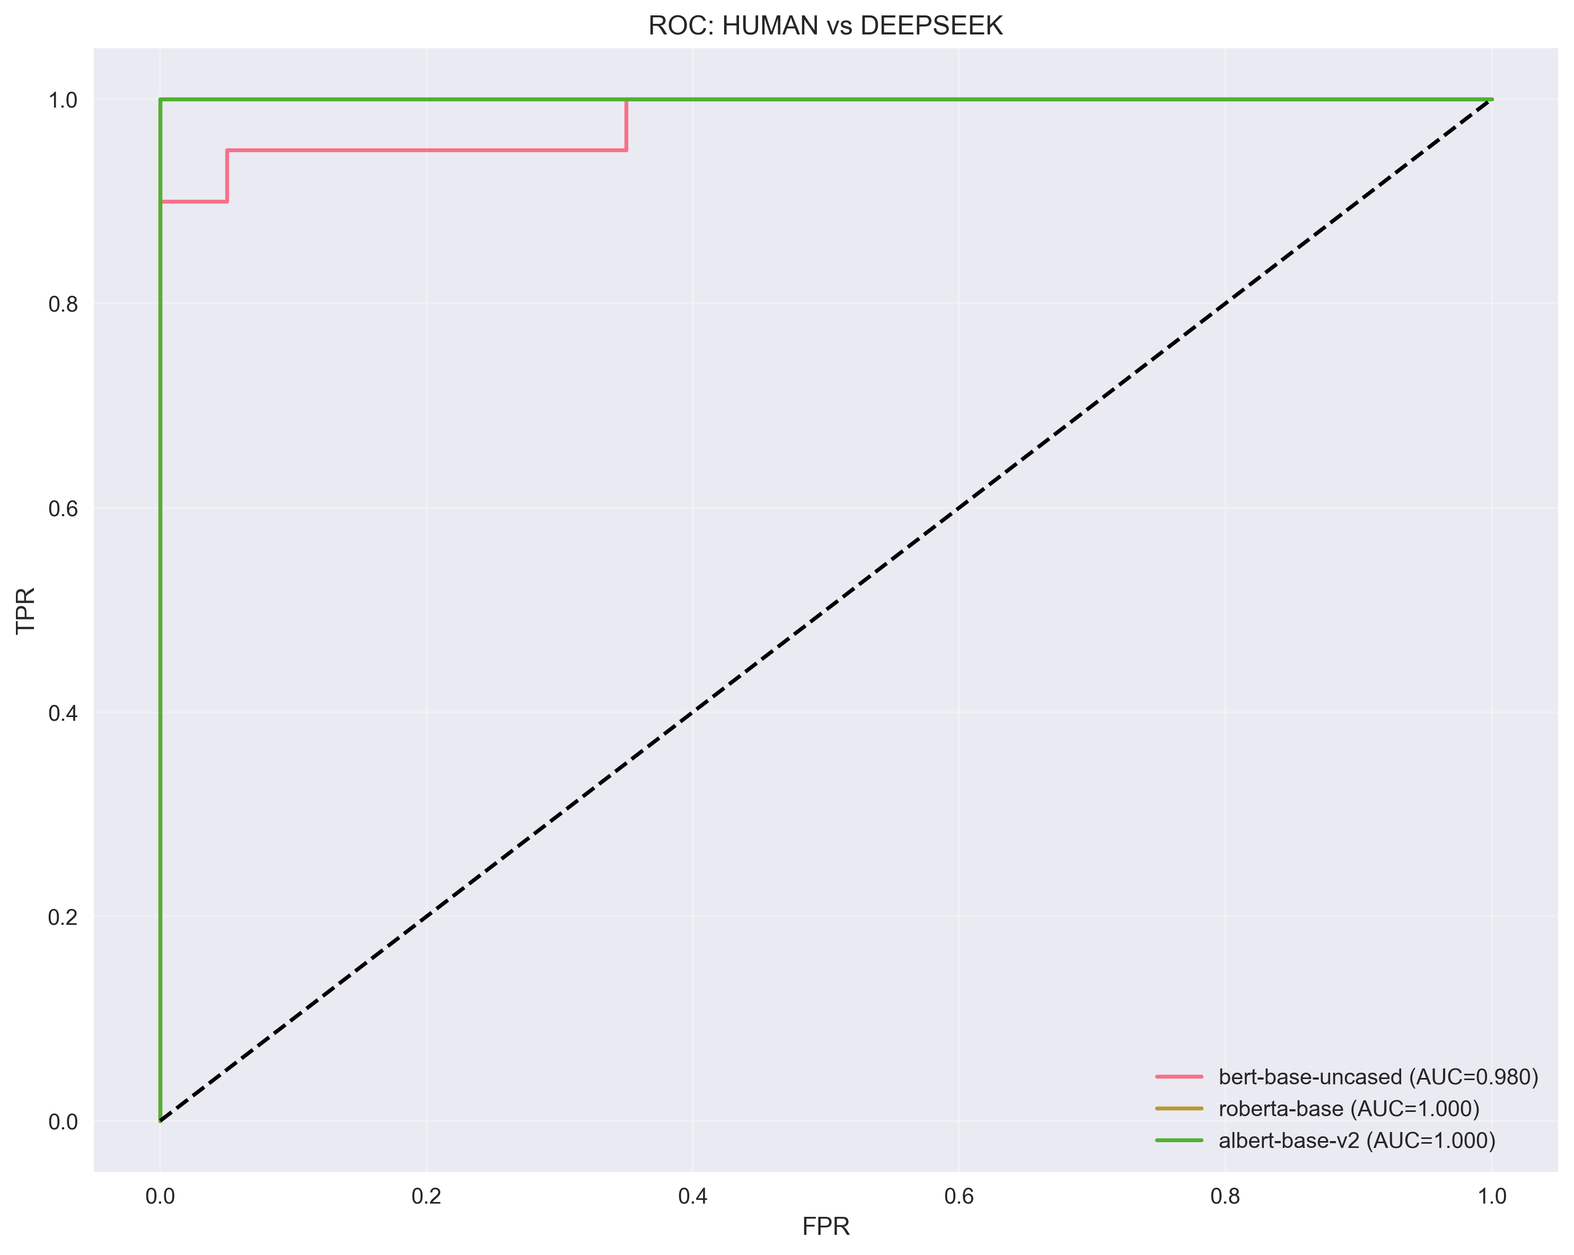
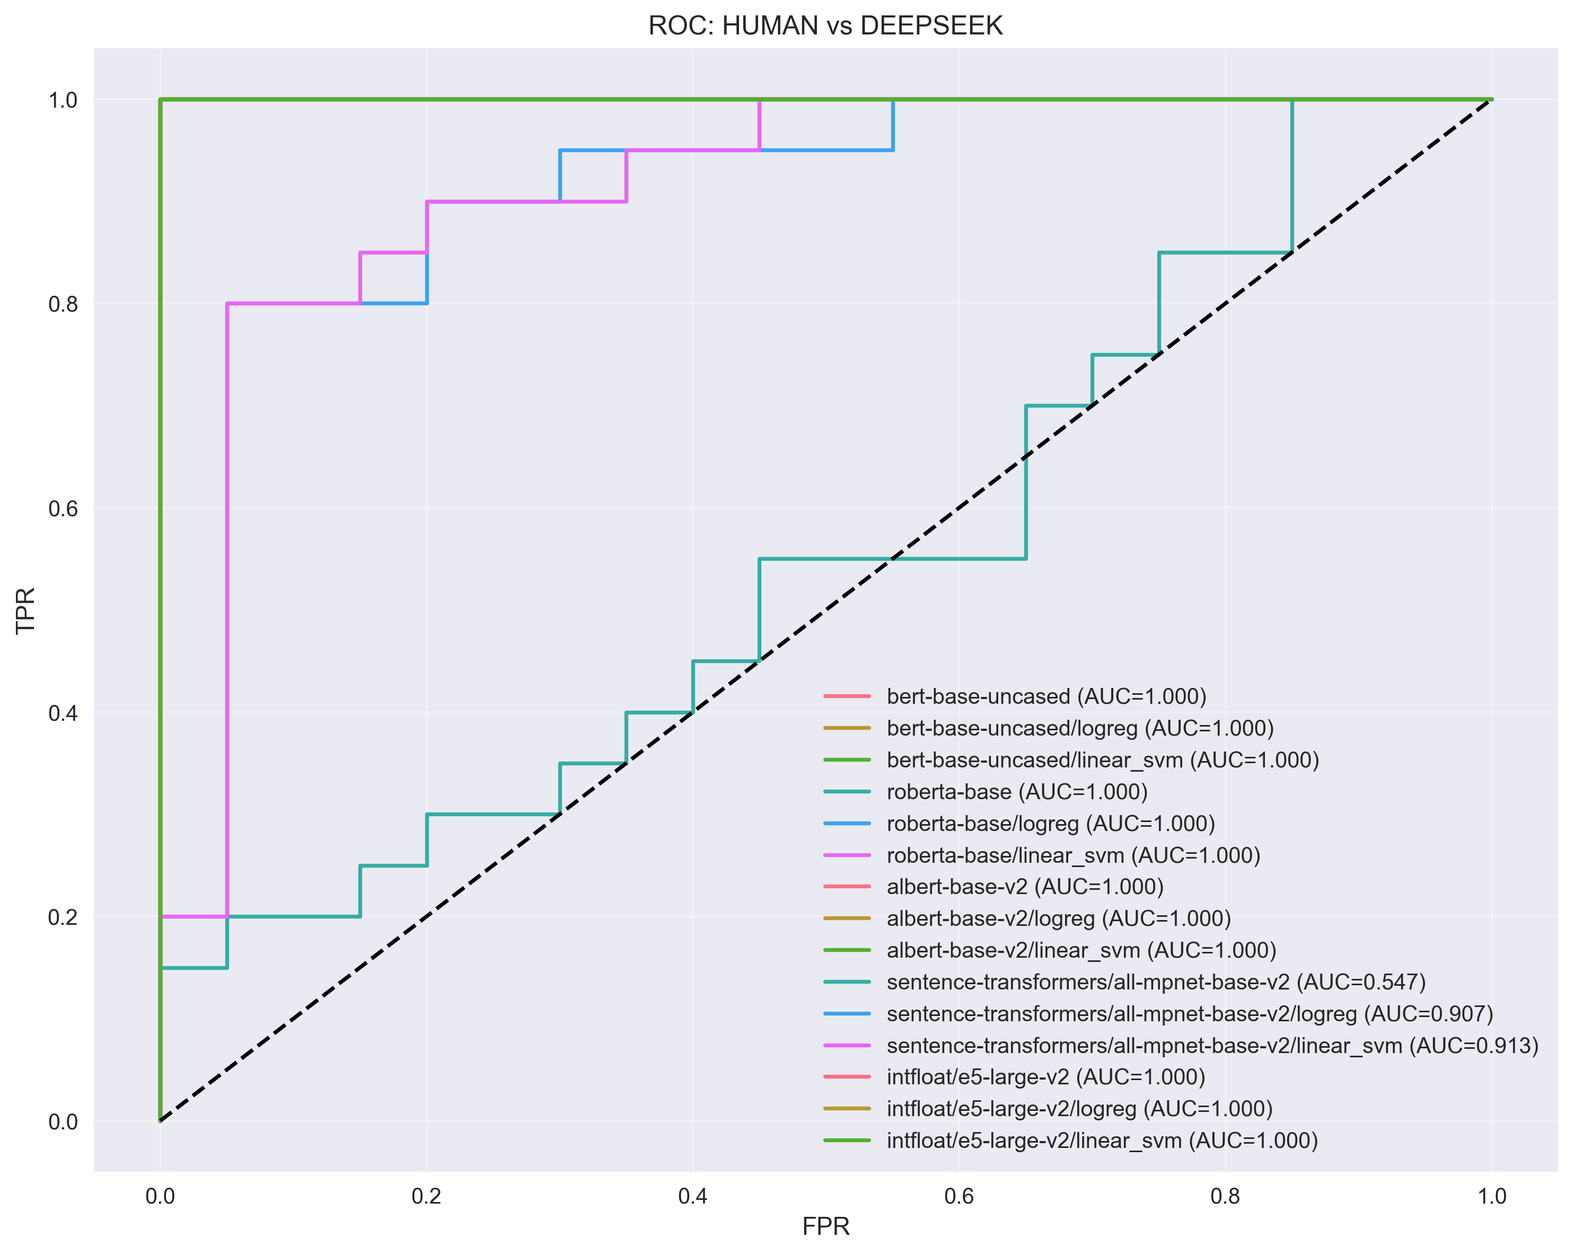
дополнение к отчету по эмбедингам

diff --git a/experiments/run_experiment2_bert.py b/experiments/run_experiment2_bert.py
@@ -35,6 +35,13 @@ except ImportError:
     print("Warning: PyTorch/Transformers not available. Install with: pip install torch transformers")
 
 try:
+    from sentence_transformers import SentenceTransformer
+    ST_AVAILABLE = True
+except Exception:
+    ST_AVAILABLE = False
+    print("Warning: sentence-transformers not available. Install with: pip install sentence-transformers")
+
+try:
     from sklearn.model_selection import train_test_split, cross_val_score, StratifiedKFold
     from sklearn.neural_network import MLPClassifier
     from sklearn.metrics import classification_report, confusion_matrix, roc_auc_score, roc_curve
@@ -83,9 +90,10 @@ def load_documents_from_txt_dir(txt_dir: str, count: int = 15) -> List[str]:
 class EmbeddingExtractor:
     """Класс для извлечения эмбеддингов из текстов"""
     
-    def __init__(self, model_name: str, max_length: int = 512):
+    def __init__(self, model_name: str, max_length: int = 512, pooling: str = 'cls'):
         self.model_name = model_name
         self.max_length = max_length
+        self.pooling = pooling  # 'cls' or 'mean'
         self.device = torch.device('cuda' if torch.cuda.is_available() else 'cpu')
         
         if not TORCH_AVAILABLE:
@@ -122,22 +130,34 @@ class EmbeddingExtractor:
             # Извлечение эмбеддингов
             with torch.no_grad():
                 outputs = self.model(**encoded)
-                # Используем [CLS] токен (первый токен) для получения эмбеддинга предложения
-                batch_embeddings = outputs.last_hidden_state[:, 0, :].cpu().numpy()
+                if self.pooling == 'mean' and hasattr(outputs, 'last_hidden_state'):
+                    # mean pooling с маской внимания
+                    token_embeddings = outputs.last_hidden_state  # [B, T, H]
+                    input_mask_expanded = encoded['attention_mask'].unsqueeze(-1).expand(token_embeddings.size()).float()
+                    sum_embeddings = torch.sum(token_embeddings * input_mask_expanded, dim=1)
+                    sum_mask = torch.clamp(input_mask_expanded.sum(dim=1), min=1e-9)
+                    batch_embeddings = (sum_embeddings / sum_mask).cpu().numpy()
+                else:
+                    # [CLS]
+                    batch_embeddings = outputs.last_hidden_state[:, 0, :].cpu().numpy()
                 embeddings.extend(batch_embeddings)
         
         return np.array(embeddings)
 
 
-def extract_embeddings_multiple_models(texts: List[str], model_names: List[str]) -> Dict[str, np.ndarray]:
+def extract_embeddings_multiple_models(texts: List[str], model_names: List[str], pooling: str = 'cls') -> Dict[str, np.ndarray]:
     """Извлекает эмбеддинги для нескольких моделей"""
     embeddings = {}
     
     for model_name in model_names:
         print(f"Extracting embeddings with {model_name}...")
         try:
-            extractor = EmbeddingExtractor(model_name)
-            embeddings[model_name] = extractor.extract_embeddings(texts)
+            if ST_AVAILABLE and (model_name.startswith('sentence-transformers') or 'all-mpnet' in model_name or 'e5-' in model_name or model_name.startswith('intfloat/')):
+                st_model = SentenceTransformer(model_name)
+                embeddings[model_name] = st_model.encode(texts, batch_size=64, show_progress_bar=False, convert_to_numpy=True, normalize_embeddings=False)
+            else:
+                extractor = EmbeddingExtractor(model_name, pooling=pooling)
+                embeddings[model_name] = extractor.extract_embeddings(texts)
             print(f"Extracted {embeddings[model_name].shape[0]} embeddings of dimension {embeddings[model_name].shape[1]}")
         except Exception as e:
             print(f"Error extracting embeddings with {model_name}: {e}")
@@ -209,6 +229,65 @@ def train_mlp_classifier(X: np.ndarray, y: np.ndarray, test_size: float = 0.2, r
         'y_pred_proba': y_pred_proba,
         'feature_importance': None  # MLP не предоставляет feature importance напрямую
     }
+
+
+def train_baselines(X: np.ndarray, y: np.ndarray, test_size: float = 0.2, random_state: int = 42) -> Dict[str, Dict]:
+    from sklearn.model_selection import train_test_split, cross_val_score
+    from sklearn.linear_model import LogisticRegression
+    from sklearn.svm import LinearSVC
+    from sklearn.calibration import CalibratedClassifierCV
+    from sklearn.preprocessing import StandardScaler
+    from sklearn.metrics import classification_report, confusion_matrix, roc_auc_score, roc_curve
+
+    X_train, X_test, y_train, y_test = train_test_split(X, y, test_size=test_size, random_state=random_state, stratify=y)
+    scaler = StandardScaler()
+    X_train = scaler.fit_transform(X_train)
+    X_test = scaler.transform(X_test)
+
+    out = {}
+
+    # Logistic Regression
+    logreg = LogisticRegression(max_iter=2000, n_jobs=None)
+    logreg.fit(X_train, y_train)
+    y_pred = logreg.predict(X_test)
+    y_proba = logreg.predict_proba(X_test)[:, 1]
+    cv_scores = cross_val_score(logreg, X_train, y_train, cv=5, scoring='accuracy')
+    out['logreg'] = {
+        'model': logreg,
+        'scaler': scaler,
+        'accuracy': logreg.score(X_test, y_test),
+        'auc_score': roc_auc_score(y_test, y_proba),
+        'cv_mean': cv_scores.mean(),
+        'cv_std': cv_scores.std(),
+        'classification_report': classification_report(y_test, y_pred, output_dict=True),
+        'confusion_matrix': confusion_matrix(y_test, y_pred),
+        'y_test': y_test,
+        'y_pred': y_pred,
+        'y_pred_proba': y_proba,
+    }
+
+    # Linear SVM (calibrated)
+    base_svm = LinearSVC()
+    svm = CalibratedClassifierCV(base_svm, method='sigmoid', cv=5)
+    svm.fit(X_train, y_train)
+    y_pred = svm.predict(X_test)
+    y_proba = svm.predict_proba(X_test)[:, 1]
+    cv_scores = cross_val_score(svm, X_train, y_train, cv=5, scoring='accuracy')
+    out['linear_svm'] = {
+        'model': svm,
+        'scaler': scaler,
+        'accuracy': svm.score(X_test, y_test),
+        'auc_score': roc_auc_score(y_test, y_proba),
+        'cv_mean': cv_scores.mean(),
+        'cv_std': cv_scores.std(),
+        'classification_report': classification_report(y_test, y_pred, output_dict=True),
+        'confusion_matrix': confusion_matrix(y_test, y_pred),
+        'y_test': y_test,
+        'y_pred': y_pred,
+        'y_pred_proba': y_proba,
+    }
+
+    return out
 
 
 def create_classification_visualizations(results: Dict, output_dir: str):
@@ -409,9 +488,13 @@ def main():
     parser.add_argument("--docs_per_topic", type=int, default=15, help="Количество документов на тему")
     parser.add_argument("--models", nargs="+", default=[
         "bert-base-uncased",
-        "roberta-base", 
-        "albert-base-v2"
+        "roberta-base",
+        "albert-base-v2",
+        # дополнительные sentence-transformers
+        "sentence-transformers/all-mpnet-base-v2",
+        "intfloat/e5-large-v2"
     ], help="Список моделей для извлечения эмбеддингов")
+    parser.add_argument("--pooling", choices=["cls","mean"], default="mean", help="Pooling для базовых HF моделей")
     args = parser.parse_args()
     
     if not TORCH_AVAILABLE:
@@ -486,7 +569,7 @@ def main():
         all_labels = [0] * len(human_docs) + [1] * len(synth_docs)
 
         # Эмбеддинги для всех выбранных моделей
-        embeddings_dict = extract_embeddings_multiple_models(all_texts, args.models)
+        embeddings_dict = extract_embeddings_multiple_models(all_texts, args.models, pooling=args.pooling)
 
         # Обучение классификатора для каждой embedding‑модели
         results[synth_name] = {}
@@ -496,7 +579,14 @@ def main():
             print(f"Обучение MLP для {model_name} на {synth_name}...")
             try:
                 res = train_mlp_classifier(embeddings, np.array(all_labels))
+                # Сохраняем результат MLP
                 results[synth_name][model_name] = res
+                # Обучаем дополнительные классifikаторы
+                print(f"Обучение базовых моделей (logreg, linear_svm) для {model_name} на {synth_name}...")
+                baselines = train_baselines(embeddings, np.array(all_labels))
+                # добавим как отдельные строки с суффиксом
+                for clf_name, clf_res in baselines.items():
+                    results[synth_name][f"{model_name}/{clf_name}"] = clf_res
                 print(f"{synth_name} | {model_name}: Acc={res['accuracy']:.3f}, AUC={res['auc_score']:.3f}")
             except Exception as e:
                 print(f"Error training {model_name} on {synth_name}: {e}")

diff --git a/results/experiment2/experiment2_report.md b/results/experiment2/experiment2_report.md
@@ -3,7 +3,7 @@
 ## Методология
 
 - **Корпуса**: 100 HUMAN (50 TM + 50 IR) против 100 AI на каждую синтетическую модель
-- **Эмбеддинги**: bert-base-uncased, roberta-base, albert-base-v2
+- **Эмбеддинги**: bert-base-uncased, roberta-base, albert-base-v2, sentence-transformers/all-mpnet-base-v2, intfloat/e5-large-v2
 - **Классификатор**: MLP, train/test + 5‑fold CV
 
 ## Модель синтетики: QWEN
@@ -12,9 +12,21 @@
 
 | Embedding | Accuracy | AUC | CV Mean | CV Std |
 |-----------|----------|-----|---------|--------|
-| bert-base-uncased | 0.925 | 0.987 | 0.963 | 0.046 |
-| roberta-base | 1.000 | 1.000 | 0.994 | 0.012 |
-| albert-base-v2 | 1.000 | 1.000 | 0.988 | 0.025 |
+| bert-base-uncased | 0.925 | 0.978 | 0.975 | 0.036 |
+| bert-base-uncased/logreg | 0.975 | 1.000 | 0.994 | 0.013 |
+| bert-base-uncased/linear_svm | 0.975 | 1.000 | 0.994 | 0.013 |
+| roberta-base | 1.000 | 1.000 | 1.000 | 0.000 |
+| roberta-base/logreg | 1.000 | 1.000 | 1.000 | 0.000 |
+| roberta-base/linear_svm | 1.000 | 1.000 | 1.000 | 0.000 |
+| albert-base-v2 | 1.000 | 1.000 | 0.975 | 0.036 |
+| albert-base-v2/logreg | 1.000 | 1.000 | 0.988 | 0.025 |
+| albert-base-v2/linear_svm | 1.000 | 1.000 | 0.988 | 0.025 |
+| sentence-transformers/all-mpnet-base-v2 | 0.575 | 0.627 | 0.688 | 0.071 |
+| sentence-transformers/all-mpnet-base-v2/logreg | 0.725 | 0.850 | 0.831 | 0.061 |
+| sentence-transformers/all-mpnet-base-v2/linear_svm | 0.775 | 0.853 | 0.825 | 0.064 |
+| intfloat/e5-large-v2 | 0.700 | 0.785 | 0.838 | 0.050 |
+| intfloat/e5-large-v2/logreg | 0.900 | 0.953 | 0.894 | 0.032 |
+| intfloat/e5-large-v2/linear_svm | 0.900 | 0.958 | 0.875 | 0.034 |
 
 ![Метрики](classification_metrics_qwen.png)
 
@@ -28,9 +40,21 @@
 
 | Embedding | Accuracy | AUC | CV Mean | CV Std |
 |-----------|----------|-----|---------|--------|
-| bert-base-uncased | 0.950 | 0.980 | 0.944 | 0.041 |
-| roberta-base | 1.000 | 1.000 | 0.994 | 0.012 |
-| albert-base-v2 | 0.975 | 1.000 | 1.000 | 0.000 |
+| bert-base-uncased | 0.975 | 1.000 | 0.981 | 0.025 |
+| bert-base-uncased/logreg | 1.000 | 1.000 | 0.988 | 0.015 |
+| bert-base-uncased/linear_svm | 1.000 | 1.000 | 0.988 | 0.015 |
+| roberta-base | 1.000 | 1.000 | 1.000 | 0.000 |
+| roberta-base/logreg | 1.000 | 1.000 | 1.000 | 0.000 |
+| roberta-base/linear_svm | 1.000 | 1.000 | 1.000 | 0.000 |
+| albert-base-v2 | 0.975 | 1.000 | 0.994 | 0.013 |
+| albert-base-v2/logreg | 0.950 | 1.000 | 0.994 | 0.013 |
+| albert-base-v2/linear_svm | 0.950 | 1.000 | 1.000 | 0.000 |
+| sentence-transformers/all-mpnet-base-v2 | 0.500 | 0.547 | 0.544 | 0.070 |
+| sentence-transformers/all-mpnet-base-v2/logreg | 0.825 | 0.907 | 0.725 | 0.036 |
+| sentence-transformers/all-mpnet-base-v2/linear_svm | 0.825 | 0.913 | 0.719 | 0.056 |
+| intfloat/e5-large-v2 | 1.000 | 1.000 | 1.000 | 0.000 |
+| intfloat/e5-large-v2/logreg | 1.000 | 1.000 | 1.000 | 0.000 |
+| intfloat/e5-large-v2/linear_svm | 1.000 | 1.000 | 1.000 | 0.000 |
 
 ![Метрики](classification_metrics_deepseek.png)
 
@@ -44,9 +68,21 @@
 
 | Embedding | Accuracy | AUC | CV Mean | CV Std |
 |-----------|----------|-----|---------|--------|
-| bert-base-uncased | 0.975 | 0.995 | 0.975 | 0.023 |
-| roberta-base | 1.000 | 1.000 | 1.000 | 0.000 |
-| albert-base-v2 | 0.950 | 1.000 | 0.981 | 0.015 |
+| bert-base-uncased | 0.975 | 0.997 | 0.969 | 0.000 |
+| bert-base-uncased/logreg | 1.000 | 1.000 | 0.975 | 0.012 |
+| bert-base-uncased/linear_svm | 1.000 | 1.000 | 0.975 | 0.012 |
+| roberta-base | 1.000 | 1.000 | 0.981 | 0.025 |
+| roberta-base/logreg | 1.000 | 1.000 | 1.000 | 0.000 |
+| roberta-base/linear_svm | 1.000 | 1.000 | 1.000 | 0.000 |
+| albert-base-v2 | 1.000 | 1.000 | 0.975 | 0.023 |
+| albert-base-v2/logreg | 1.000 | 1.000 | 0.981 | 0.015 |
+| albert-base-v2/linear_svm | 1.000 | 1.000 | 0.981 | 0.015 |
+| sentence-transformers/all-mpnet-base-v2 | 0.550 | 0.630 | 0.613 | 0.083 |
+| sentence-transformers/all-mpnet-base-v2/logreg | 0.725 | 0.833 | 0.713 | 0.072 |
+| sentence-transformers/all-mpnet-base-v2/linear_svm | 0.750 | 0.835 | 0.719 | 0.066 |
+| intfloat/e5-large-v2 | 0.975 | 1.000 | 0.981 | 0.025 |
+| intfloat/e5-large-v2/logreg | 1.000 | 1.000 | 0.988 | 0.015 |
+| intfloat/e5-large-v2/linear_svm | 1.000 | 1.000 | 0.988 | 0.015 |
 
 ![Метрики](classification_metrics_gptoss.png)
 
@@ -54,47 +90,3 @@
 
 ![Матрицы ошибок](confusion_matrices_gptoss.png)
 
-## Глоссарий метрик
-
-- Accuracy: доля верно классифицированных документов. Формула: (TP+TN)/(TP+FP+TN+FN).
-- Precision (для класса AI): доля корректных AI среди предсказанных AI. Формула: TP/(TP+FP).
-- Recall (для класса AI): доля найденных AI среди всех AI. Формула: TP/(TP+FN).
-- F1-score (для класса AI): гармоническое среднее Precision и Recall. Формула: 2·P·R/(P+R).
-- AUC (ROC AUC): площадь под ROC‑кривой; устойчивость к порогам, 1.0 — идеальная разделимость.
-- CV Mean / CV Std: среднее и std метрики Accuracy на k‑fold валидации (k=5), характеризуют стабильность.
-- Confusion Matrix: матрица ошибок (строки — факты, столбцы — прогнозы): [[TN, FP], [FN, TP]].
-
-## Выводы по результатам
-
-1) Сильная разделимость по семантике: во всех разрезах синтетических моделей (Qwen, DeepSeek, GPT‑OSS) эмбеддинги дают AUC≈1.0 и высокую Accuracy. Особенно стабильно выступает roberta‑base (во всех случаях Accuracy=1.000, AUC=1.000).
-
-2) Различия между эмбеддингами: bert‑base и albert‑base уступают roberta‑base, но также достигают AUC>0.98, что подтверждает надежность семантического признакового пространства.
-
-3) Структурные/лексические признаки вторичны: по сравнению с Экспериментом 1, где лексическое пересечение давало умеренные сигналы, семантические представления обеспечивают практически совершимую дискриминацию HUMAN/AI.
-
-4) Риск переобучения контролируется: наличие k‑fold CV с узкими CV Std (≈0.0–0.05) указывает на стабильность. Тем не менее, для промышленной эксплуатации рекомендуется валидация на внешних доменах/моделях (out‑of‑domain).
-
-## Предложения по улучшению качества классификации
-
-- Эмбеддинги:
-  - Добавить sentence‑transformers (например, all‑mpnet‑base‑v2, e5‑large‑v2) и современные модели (nomic‑embed, jina‑embeddings) для более «плотных» предложенческих признаков.
-  - Пуллинг: вместо [CLS] применить mean‑pooling по токенам или attention‑pooling — часто повышает качество.
-
-- Классификатор:
-  - Сравнить MLP с Logistic Regression и Linear SVM (часто сильные на фиксированных эмбеддингах).
-  - Калибровка вероятностей (Platt/Isotonic) для корректной интерпретации рисков.
-  - Подбор гиперпараметров (Randomized/Grid Search) по сети MLP и регуляризации.
-
-- Данные/обобщение:
-  - Добавить внешние домены (другие площадки, жанры) и другие модели синтетики (Qwen3/4, Llama, GLM) для повышения обобщения.
-  - Балансировать длины текстов и нормализовать по темам (TM/IR), чтобы исключать тривиальные подсказки.
-  - Аугментации (перефразирование, маскировка) для повышения устойчивости к перегенерациям.
-
-- Верификация устойчивости:
-  - Оценить чувствительность к усечению/шумам; варьировать длину контекста и разбиение текста на части (chunking) с агрегацией предсказаний.
-  - Проверить переносимость на новых моделях и релизах (temporal drift).
-
-## Краткое сравнение с лексическим подходом (Эксперимент 1)
-
-- Лексические метрики (Jaccard/Harmonic) демонстрировали умеренные сигналы и зависимость от параметров ключевыделения.
-- Семантический подход (эмбеддинги) показал почти совершенный разбор HUMAN/AI на текущем датасете (AUC≈1.0), что делает его предпочтительным для практической детекции.
